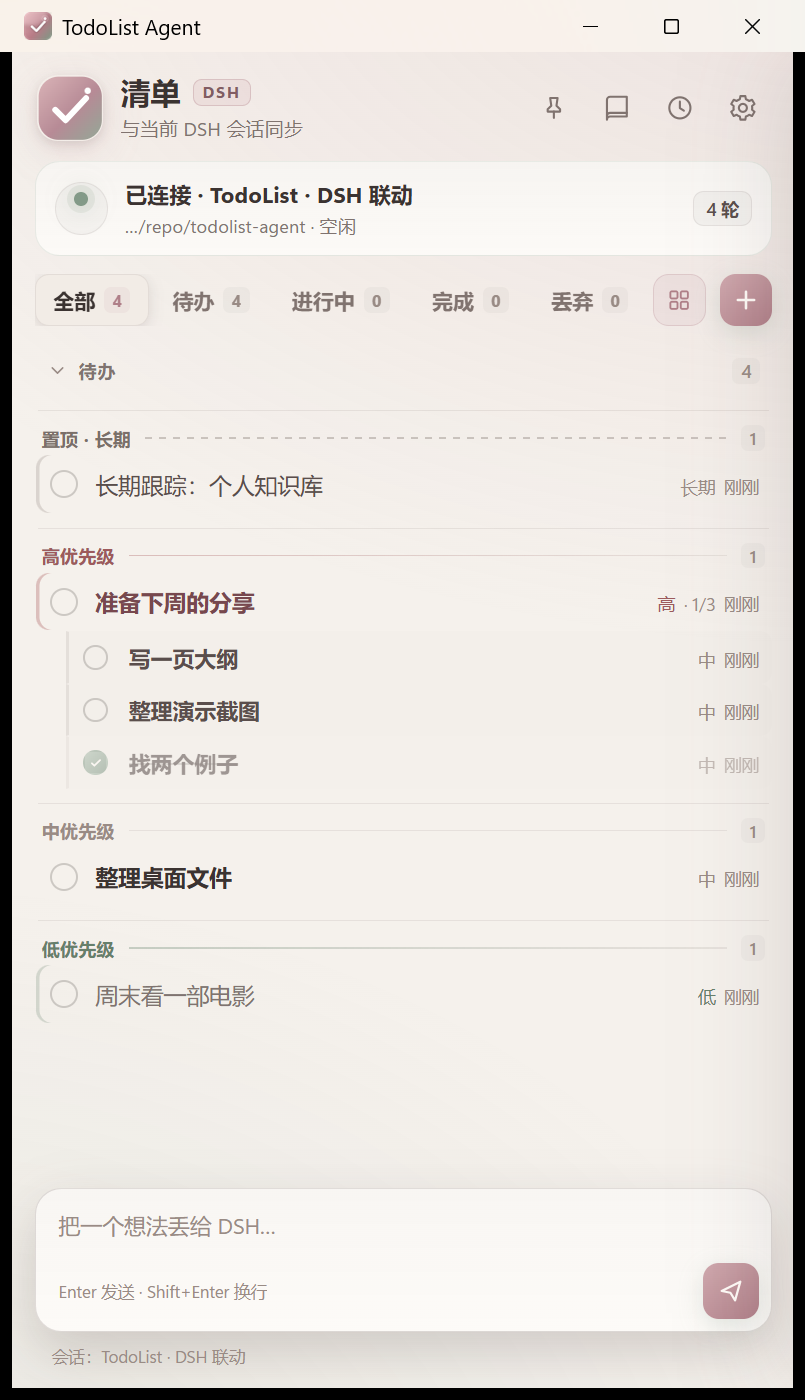
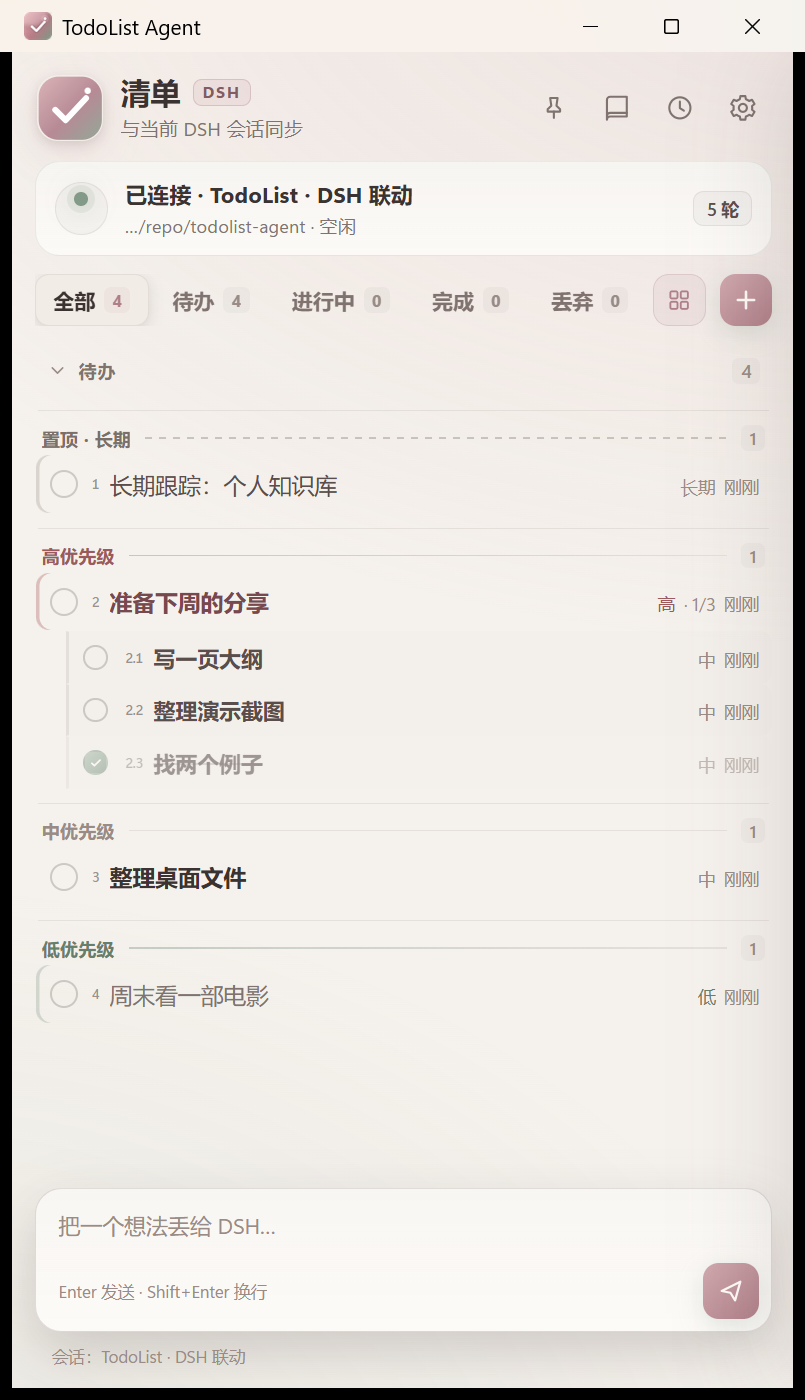
feat: add task numbers for DSH references

diff --git a/web/style.css b/web/style.css
@@ -520,8 +520,8 @@ svg {
 .todo {
   position: relative;
   display: grid;
-  grid-template-columns: 24px minmax(0, 1fr);
-  gap: 9px;
+  grid-template-columns: 24px max-content minmax(0, 1fr);
+  gap: 8px;
   align-items: start;
   padding: 10px 11px;
   border-radius: 12px;
@@ -566,6 +566,44 @@ svg {
 
 .todo.dropped .todo-title {
   color: var(--faint);
+}
+
+.todo-num {
+  padding-top: 4px;
+  color: rgba(var(--ink), 0.55);
+  font-size: 9px;
+  font-weight: 550;
+  line-height: 1;
+  letter-spacing: -0.04em;
+  font-variant-numeric: tabular-nums;
+  text-align: left;
+  padding-left: 1px;
+  white-space: nowrap;
+  user-select: none;
+}
+
+.subtask-num {
+  color: rgba(var(--ink), 0.50);
+  font-size: 8px;
+  font-weight: 500;
+  line-height: 1;
+  letter-spacing: -0.03em;
+  font-variant-numeric: tabular-nums;
+  text-align: left;
+  white-space: nowrap;
+  user-select: none;
+}
+
+.crow-num {
+  color: rgba(var(--ink), 0.50);
+  font-size: 8px;
+  font-weight: 500;
+  line-height: 1;
+  letter-spacing: -0.03em;
+  font-variant-numeric: tabular-nums;
+  text-align: left;
+  white-space: nowrap;
+  user-select: none;
 }
 
 .check {
@@ -934,9 +972,9 @@ svg {
 .subtask {
   position: relative;
   display: grid;
-  grid-template-columns: 18px 1fr auto;
+  grid-template-columns: 18px max-content minmax(0, 1fr) auto;
   align-items: center;
-  gap: 8px;
+  gap: 6px;
   min-height: 33px;
   padding: 3px 4px;
   border-radius: 7px;
@@ -2206,9 +2244,9 @@ kbd {
 .crow {
   position: relative;
   display: grid;
-  grid-template-columns: 18px minmax(0, 1fr);
+  grid-template-columns: 18px max-content minmax(0, 1fr);
   align-items: center;
-  gap: 8px;
+  gap: 6px;
   min-height: 34px;
   padding: 4px 7px 4px 8px;
   border-radius: 8px;

diff --git a/web/app.js b/web/app.js
@@ -422,6 +422,7 @@
       <button class="scheck" data-act="toggle" aria-label="${done || dropped ? "重新打开" : "完成子任务"}" title="${done || dropped ? "重新打开" : "完成子任务"}">
         <svg class="icon"><use href="#i-check"/></svg>
       </button>
+      <span class="subtask-num">${esc(t.number || "")}</span>
       <div class="subtask-main">
         <div class="stitle" data-act="edit">${esc(t.title)}</div>
         ${t.notes ? `<div class="snotes">${esc(t.notes)}</div>` : ""}
@@ -468,6 +469,7 @@
       <button class="check" data-act="toggle" aria-label="${done ? "标记为待办" : "标记为完成"}" title="${done ? "标记为待办" : "标记为完成"}">
         <svg class="icon"><use href="#i-check"/></svg>
       </button>
+      <span class="todo-num">${esc(t.number || "")}</span>
       <div class="todo-main">
         <div class="todo-title" data-act="edit" title="点击编辑">${esc(t.title)}</div>
         ${notes}${reason}
@@ -498,6 +500,7 @@
       <button class="ccheck" data-act="toggle" aria-label="${checked ? "重新打开" : "标记完成"}" title="${checked ? "重新打开" : "标记完成"}">
         <svg class="icon"><use href="#i-check"/></svg>
       </button>
+      <span class="crow-num">${esc(t.number || "")}</span>
       <div class="crow-main">
         <div class="crow-title" data-act="edit" title="${esc(t.notes || t.title)}">${esc(t.title)}</div>
         <div class="crow-meta">

diff --git a/web/index.html b/web/index.html
@@ -357,7 +357,7 @@
 
       <section class="settings-section about">
         <div class="section-title"><span class="section-index">05</span> 关于</div>
-        <p><b>TodoList Agent <span id="aboutVersion">0.2.3</span></b><br>
+        <p><b>TodoList Agent <span id="aboutVersion">0.2.4</span></b><br>
         用 Go + WebView2 构建的轻量桌面清单。通过 DSH 的本地 Web API 直接向当前会话发送输入，并把 DSH 的工具调用同步回清单。</p>
         <p class="muted">连接原理：读取 <code>%USERPROFILE%\.dsh\.credentials.yaml</code> 中的本地签名密钥，签发一个仅限 127.0.0.1 的会话 Cookie；输入通过 <code>session/prompt</code> 进入当前会话。</p>
       </section>

diff --git a/app.go b/app.go
@@ -8,6 +8,7 @@ import (
 	"os"
 	"path/filepath"
 	"sort"
+	"strconv"
 	"strings"
 	"sync"
 	"time"
@@ -121,6 +122,10 @@ func (a *App) snapshot() StatePayload {
 	a.mu.Lock()
 	defer a.mu.Unlock()
 	todos := append(make([]Todo, 0, len(a.state.Todos)), a.state.Todos...)
+	numbers := a.displayNumbersLocked()
+	for i := range todos {
+		todos[i].Number = numbers[todos[i].ID]
+	}
 	events := append(make([]HistoryEvent, 0, len(a.state.Events)), a.state.Events...)
 	if len(events) > 1000 {
 		events = events[len(events)-1000:]
@@ -525,6 +530,37 @@ func todoOrderLess(a, b Todo) bool {
 		return a.Position < b.Position
 	}
 	return a.CreatedAt < b.CreatedAt
+}
+
+// displayNumbersLocked mirrors the UI's root/child order: top-level tasks are
+// numbered 1,2,3…, and children become 2.4-style references. The numbers are
+// display-only and recomputed on every snapshot; they are never persisted.
+func (a *App) displayNumbersLocked() map[string]string {
+	byID := make(map[string]bool, len(a.state.Todos))
+	for _, t := range a.state.Todos {
+		byID[t.ID] = true
+	}
+	roots := make([]Todo, 0, len(a.state.Todos))
+	children := make(map[string][]Todo)
+	for _, t := range a.state.Todos {
+		if t.ParentID == "" || !byID[t.ParentID] {
+			roots = append(roots, t)
+			continue
+		}
+		children[t.ParentID] = append(children[t.ParentID], t)
+	}
+	sort.SliceStable(roots, func(i, j int) bool { return todoOrderLess(roots[i], roots[j]) })
+	numbers := make(map[string]string, len(a.state.Todos))
+	for i := range roots {
+		rootNumber := strconv.Itoa(i + 1)
+		numbers[roots[i].ID] = rootNumber
+		kids := children[roots[i].ID]
+		sort.SliceStable(kids, func(x, y int) bool { return todoOrderLess(kids[x], kids[y]) })
+		for j := range kids {
+			numbers[kids[j].ID] = rootNumber + "." + strconv.Itoa(j+1)
+		}
+	}
+	return numbers
 }
 
 // moveTodo changes priority (when dropping into another priority band) and
@@ -957,6 +993,7 @@ func (a *App) agentsBlock() string {
 		"- 一条消息有多个行动点就拆成多个任务；一个行动点不要拆碎。",
 		"- 任务支持一层子任务：`add` 时传 `parentId` 即可；子任务不能再有子任务。只有当一个任务确实有 2-5 个明确步骤时才拆子任务，不要为了层级而层级。",
 		"- 长期跟踪、需要一直排在最前面但不紧急的任务用 `priority:\"pinned\"`（置顶 · 长期）；它排在 high 之前，但视觉上不抢高优先级。",
+		"- `GET /api/todos` 返回的每个任务有 `number` 字段（如 `2.4`），它就是打钩圆圈右侧的序号；用户用序号指代时按 `number` 精确找到 id，不要按数组下标猜。序号会随排序、优先级和状态变化，操作前重新 GET。",
 		"- 先查列表再新增，避免重复；相似任务优先 update 而不是 add。",
 		"- 用户说“关掉/做完了/搞定” → `complete`；说“不做了/算了/放弃/搁置/丢弃” → `drop` 并写 `reason`；只有明确说“删除/删掉”才 `delete`。",
 		"- 开始处理某任务 → `doing`；完成后 → `done`。",

diff --git a/dsh.go b/dsh.go
@@ -1023,7 +1023,8 @@ func (c *DSHClient) OnboardingText() string {
 		"3. 一条消息有多个行动点就拆成多个任务；一个行动点不要拆碎。",
 		"4. 任务支持一层子任务：`add` 时传 `parentId`；子任务不能再有子任务。只有当一个任务确实有 2-5 个明确步骤时才拆子任务，不要为了层级而层级。",
 		"5. 长期跟踪、需要一直排在最前面但不紧急的任务用 `priority:\"pinned\"`（置顶 · 长期）；它排在 high 之前，但视觉上不抢高优先级。",
-		"6. 用户说“关掉/做完了/搞定” → `complete`；说“不做了/算了/放弃/搁置/丢弃” → `drop` 并写明 reason；只有明确说“删除/删掉”才 `delete`。不要把“不做了”当成完成。",
+		"6. `GET /api/todos` 返回的每个任务有 `number` 字段（如 `2.4`），它就是打钩圆圈右侧的序号；用户用序号指代时按 `number` 精确找到 id，不要按数组下标猜。序号会随排序、优先级和状态变化，操作前重新 GET。",
+		"7. 用户说“关掉/做完了/搞定” → `complete`；说“不做了/算了/放弃/搁置/丢弃” → `drop` 并写明 reason；只有明确说“删除/删掉”才 `delete`。不要把“不做了”当成完成。",
 		"7. 开始处理某任务 → `doing`；完成后 → `done`。",
 		"8. 任务标题写成可执行的短句；`notes` 保留我的原话、背景和链接，不要过度改写。",
 		"9. 回复只简要汇报实际新增/完成/丢弃了哪些任务，不要只列计划。",

diff --git a/models.go b/models.go
@@ -2,7 +2,7 @@ package main
 
 const (
 	appName    = "TodoList Agent"
-	appVersion = "0.2.3"
+	appVersion = "0.2.4"
 	appID      = "Dusk.TodoListAgent"
 
 	statusTodo    = "todo"
@@ -31,6 +31,7 @@ type Todo struct {
 	DroppedAt       int64  `json:"droppedAt,omitempty"`
 	DropReason      string `json:"dropReason,omitempty"`
 	ParentID        string `json:"parentId,omitempty"`
+	Number          string `json:"number,omitempty"` // display-only, recomputed in snapshots
 	Position        int    `json:"position"`
 	SourceMessageID string `json:"sourceMessageId,omitempty"`
 	SourceText      string `json:"sourceText,omitempty"`

diff --git a/README.md b/README.md
@@ -117,6 +117,25 @@ DSH 会把它作为 `sourceMessageId` 传给本地接口；应用据此把任务
 
 这个排序会写回本地 `position` 和 `priority`，并记录一条 `todo.move` 操作历史。
 
+### 9. 序号引用
+
+每个任务在打钩圆圈右侧有一个非常小的序号：
+
+- 顶层任务按当前列表顺序编号为 `1`、`2`、`3`……；
+- 子任务编号为 `2.4`，表示第 2 个顶层任务的第 4 个子任务；
+- 序号会随着拖动、优先级、完成/丢弃状态重新计算；
+- `GET /api/todos` 的每个任务都带 `number` 字段，DSH 必须按 `number` 精确匹配，不要按数组下标猜。
+
+所以可以直接对 DSH 说：
+
+```text
+把 2.4 标记完成
+把 3 改成高优先级
+给 1.2 加一句备注
+```
+
+DSH 会先取最新列表，用 `number` 找到对应 `id` 再操作。
+
 ## 连接设计（核心）
 
 DSH 桌面版本质上是一个 Electron 外壳 + Cordis 宿主，Web GUI 在 `http://127.0.0.1:<port>` 上提供本地 API，默认 `13848`。这个 API 只接受由 DSH 自己签发的会话 Cookie。
